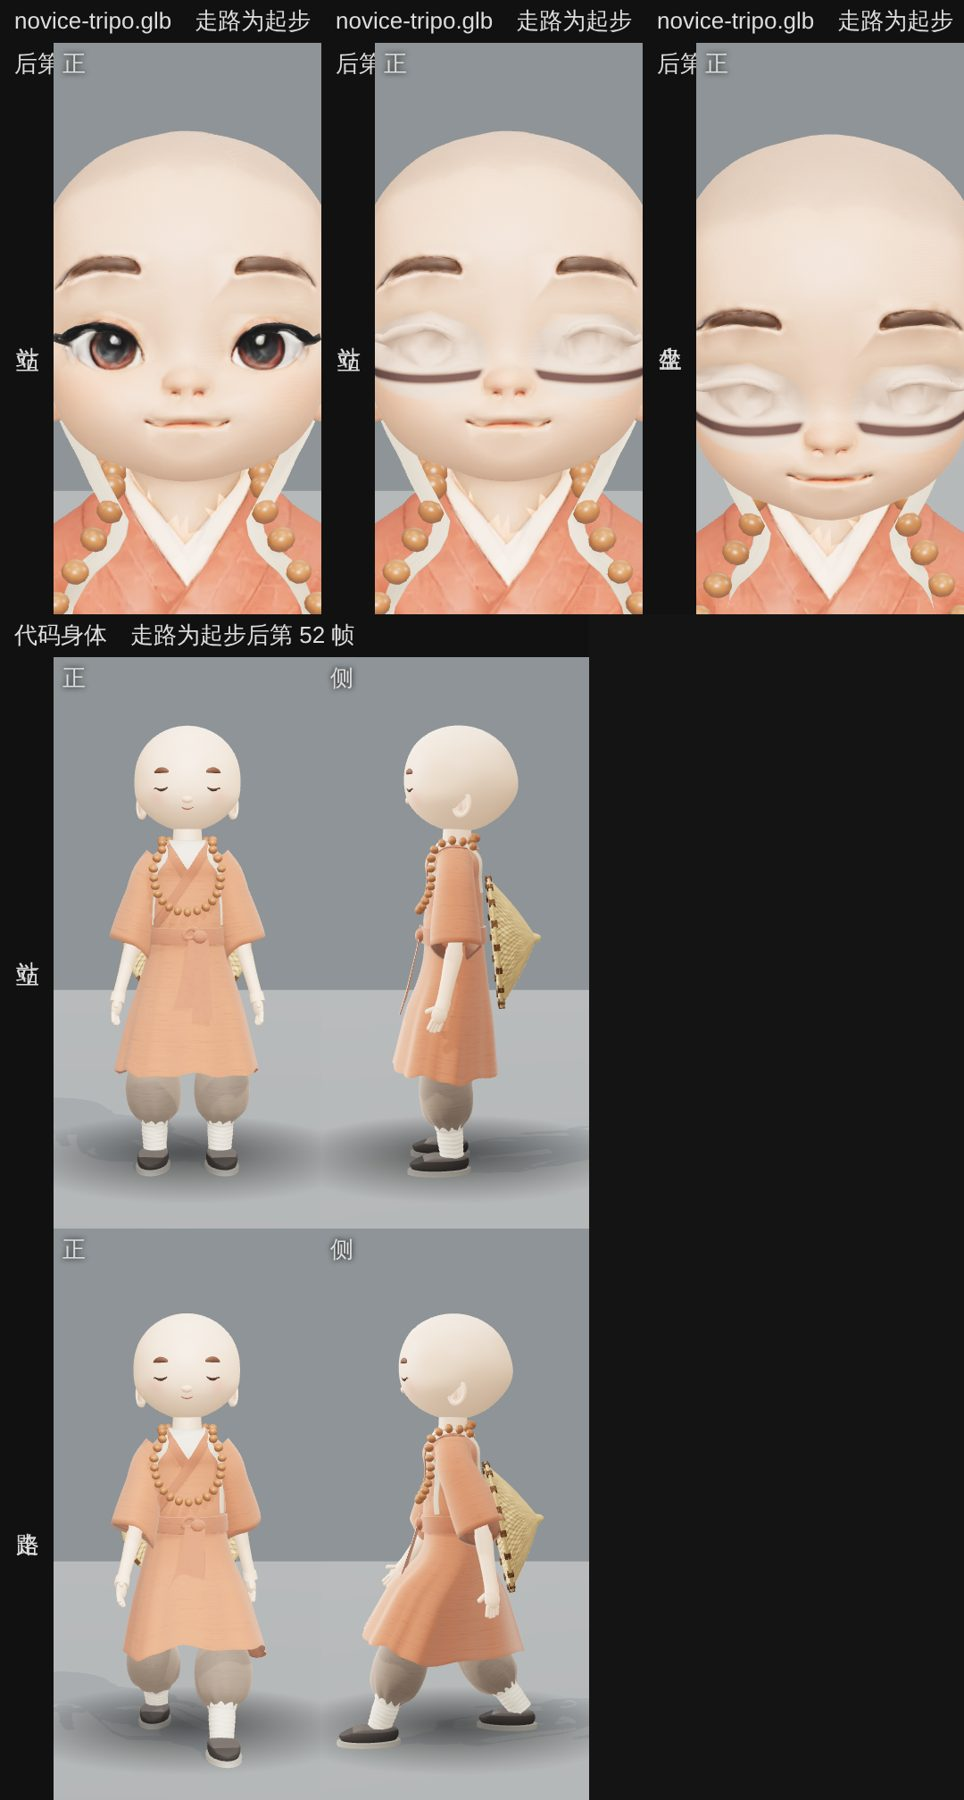
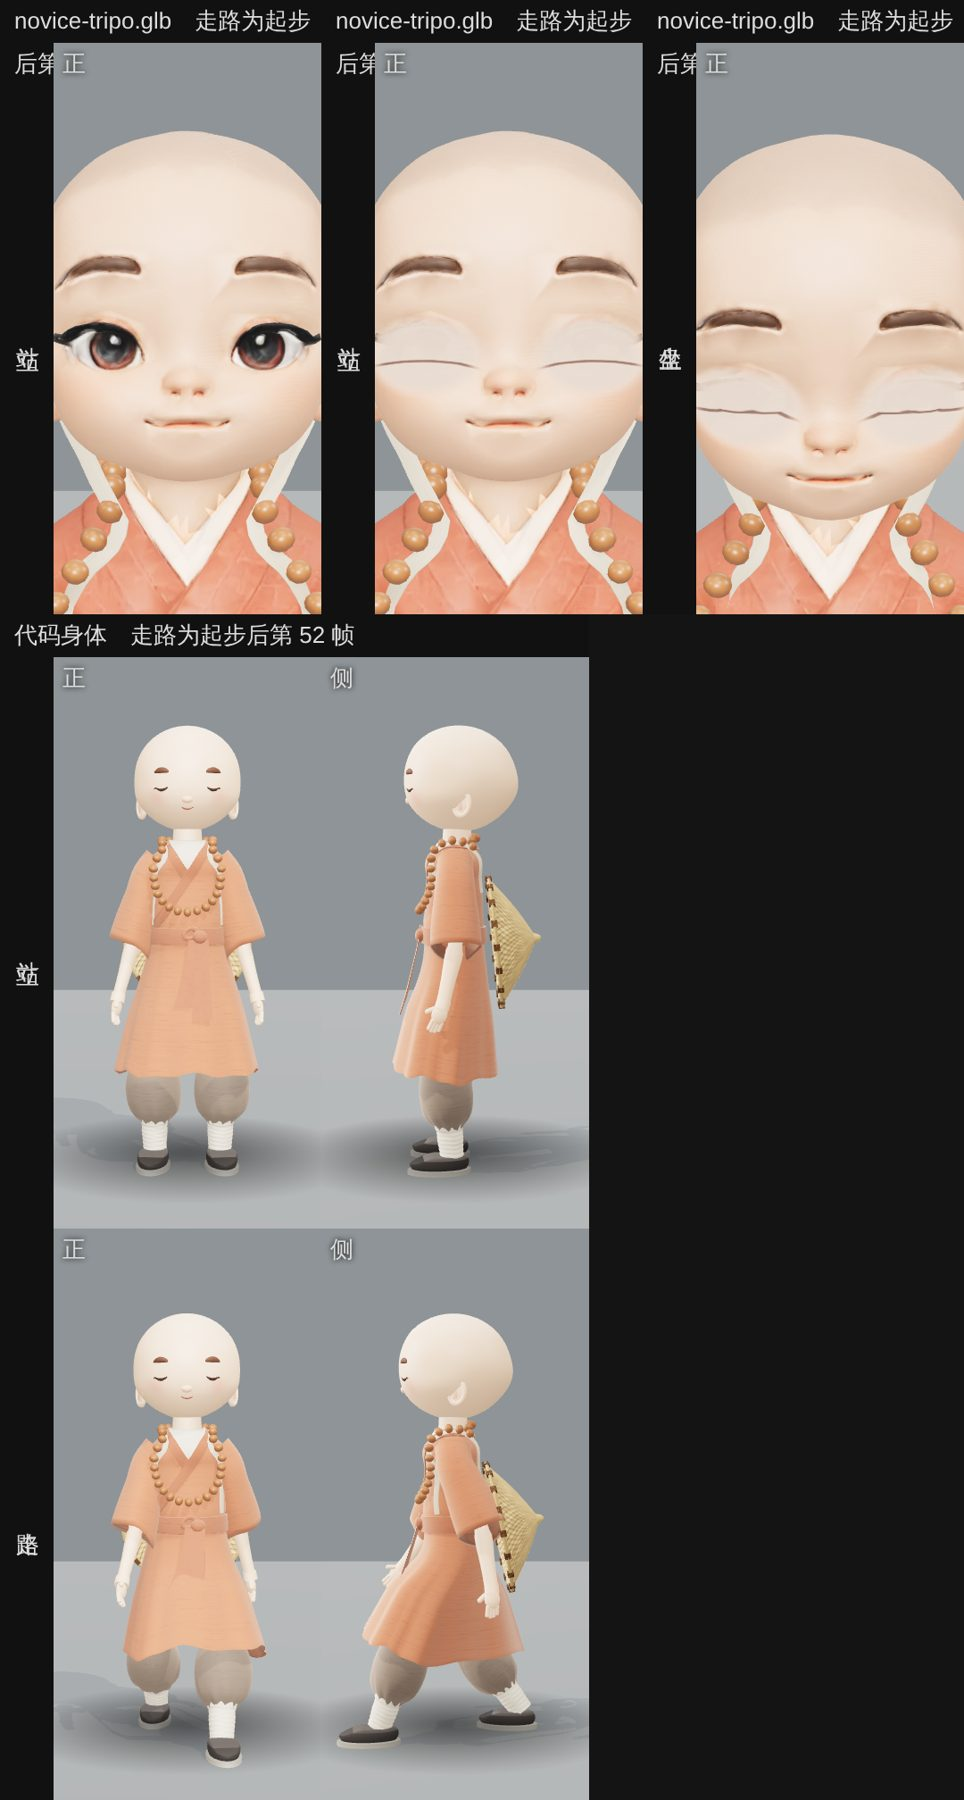
fix(novice): a thinner lid line, a flatter lid, no blinking in a photograph, shut only once seated (#607)
Review of 2c051a8: the lash is a fine arc with drooping ends (1.7 mm) instead of
a bar, the lid takes a face-on normal so the eye socket's relief is not shaded
grey, no blink while the camera is raised (sitting still shuts the eyes), and
the eyes shut once he is mostly down on the cushion, open as he rises.

Claude-Session: https://claude.ai/code/session_01Cq65vHLAWK18AfnEvh7xfL

diff --git a/app/src/blink.js b/app/src/blink.js
@@ -45,7 +45,7 @@ export function createBlink(seed = 607, B = BLINK) {
 
 // Where the eyes are in the body's bind pose (the head of novice-tripo.glb, metres, he faces +z) and the colour of the lid
 // (linear): an ellipse about each eye. The lid is drawn over the painted eye with a lash line along its lower edge.
-export const EYES = { y: 0.985, x: 0.067, rx: 0.054, ry: 0.036, zMin: 0.04, lid: [0.62, 0.40, 0.29], lash: [0.07, 0.035, 0.03] };
+export const EYES = { y: 0.985, x: 0.067, rx: 0.054, ry: 0.036, zMin: 0.04, lid: [0.5, 0.33, 0.245], lash: [0.07, 0.035, 0.03] };
 
 /** Patches a MeshStandardMaterial so its eyes close by `lid.value` (an object with a `value`, shared with the figure). Idempotent. */
 export function lidShader(material, lid) {
@@ -60,12 +60,13 @@ export function lidShader(material, lid) {
   if (uLid > 0.001 && vBind.z > ${f(EYES.zMin)}) {
     vec2 e = vec2(abs(vBind.x) - ${f(EYES.x)}, vBind.y - ${f(EYES.y)});
     float d = length(e / vec2(${f(EYES.rx)}, ${f(EYES.ry)}));
-    float over = smoothstep(1.0, 0.88, d) * uLid; lidOver = over;
-    float curve = -0.012 - 0.006 * (1.0 - clamp(e.x / ${f(EYES.rx)}, -1.0, 1.0) * clamp(e.x / ${f(EYES.rx)}, -1.0, 1.0));
-    float lash = smoothstep(0.0065, 0.002, abs(e.y - curve)) * smoothstep(1.0, 0.8, abs(e.x) / ${f(EYES.rx)}) * uLid;
+    float over = smoothstep(1.0, 0.62, d) * uLid; lidOver = over;
+    float xn = clamp(e.x / ${f(EYES.rx)}, -1.0, 1.0);
+    float curve = -0.004 - 0.009 * xn * xn;
+    float lash = smoothstep(0.0017, 0.0005, abs(e.y - curve)) * smoothstep(1.0, 0.7, abs(xn)) * uLid;
     diffuseColor.rgb = mix(diffuseColor.rgb, ${v3(EYES.lid)}, over);
-    diffuseColor.rgb = mix(diffuseColor.rgb, ${v3(EYES.lash)}, lash * over);
-  }`).replace("#include <roughnessmap_fragment>", "#include <roughnessmap_fragment>\n  roughnessFactor = mix(roughnessFactor, 1.0, lidOver);").replace("#include <emissivemap_fragment>", "#include <emissivemap_fragment>\n  totalEmissiveRadiance *= 1.0 - lidOver;").replace("#include <normal_fragment_maps>", "#include <normal_fragment_maps>\n  normal = normalize(mix(normal, nonPerturbedNormal, lidOver));");
+    diffuseColor.rgb = mix(diffuseColor.rgb, ${v3(EYES.lash)}, lash * over * 0.9);
+  }`).replace("#include <roughnessmap_fragment>", "#include <roughnessmap_fragment>\n  roughnessFactor = mix(roughnessFactor, 1.0, lidOver);").replace("#include <emissivemap_fragment>", "#include <emissivemap_fragment>\n  totalEmissiveRadiance *= 1.0 - lidOver;").replace("#include <normal_fragment_maps>", "#include <normal_fragment_maps>\n  normal = normalize(mix(normal, normalize(vViewPosition + vec3(0.0, 0.1, 0.0)), 0.9 * lidOver));");
   };
   material.customProgramCacheKey = () => "lid";
   material.needsUpdate = true;

diff --git a/app/src/monk.js b/app/src/monk.js
@@ -678,11 +678,11 @@ export function createMonk() {
       dt = Math.min(Math.max(dt || 0, 0), 0.1); speed = Math.max(0, speed || 0);
       bones.forEach((b, i) => { b.position.copy(rest[i][0]); b.quaternion.copy(rest[i][1]); b.scale.set(1, 1, 1); });
       if (pose === "bind") { legs.visible = shoes.visible = true; group.updateMatrixWorld(true); driveHelpers(true); return; }
-      lid.value = eyed ? blink.step(dt, pose === "sit", blinking) : 0;   // the Tripo body's eyelids (#607)
       const pray = pose === true || pose === "pray", sit = pose === "sit", chair = pose === "chair", hop = pose === "hop", stairs = !!grounding.stairs, ease = (k) => Math.min(1, dt * k);
       const act = grounding.act || null, bow = act?.bow || 0, turnTo = act?.twist || 0, nod = act?.nod || 0, look = act?.look || 0, air = act && act.breath != null ? act.breath : null;
       // `seat`: cross-legged on a cushion; `perch`: on a stool, as on a chair.
       seat += ((sit ? 1 : 0) - seat) * ease(3.5); perch += ((chair ? 1 : 0) - perch) * ease(3.5);
+      lid.value = eyed ? blink.step(dt, sit && seat > 0.4, blinking) : 0;   // the Tripo body's eyelids (#607): shut once he is mostly down on the cushion, open as he rises
       // His legs fold into the seat as slowly as he sits down, but come out of it at once when he gets up: off a stool
       // a child slips down onto his feet, and the body (`seat`, `perch`) rises from that crouch over the next second.
       // Sent from one kind of seat to the other, he gets up from the first as above and folds into the second.

diff --git a/app/yard.js b/app/yard.js
@@ -780,7 +780,7 @@ function frame(now) {
   if (walkViz) walkViz.update(pos.x, walker.heightAt(pos.x, pos.z), pos.z);
   // (`posed`: a tool may have him walk, hurry, climb, hop or sit on the spot, to be looked at closely: `__act`.)
   if (posed) monk.update(dt || 1 / 30, posed.speed || 0, posed.pose || false, t, walker.heightAt, { heightAt: walker.eyeAt, stairs: !!posed.stairs, act: posed.act || null });
-  else monk.update(dt, stage && stage.speed != null ? stage.speed : still || (aloft && !stepping) ? 0 : speedNow, (aloft && !stepping) || (climb && climb.t < climb.plan.duration * 0.5) ? "hop" : stage ? stage.pose : photo.on && photo.pray, t, walker.heightAt, { heightAt: walker.eyeAt, stairs: walker.onStairs(pos.x, pos.z), act: stage ? stage.act : null });
+  else { monk.blinking = !Q.has("shot") && !photo.on; monk.update(dt, stage && stage.speed != null ? stage.speed : still || (aloft && !stepping) ? 0 : speedNow, (aloft && !stepping) || (climb && climb.t < climb.plan.duration * 0.5) ? "hop" : stage ? stage.pose : photo.on && photo.pray, t, walker.heightAt, { heightAt: walker.eyeAt, stairs: walker.onStairs(pos.x, pos.z), act: stage ? stage.act : null }); }
   // Where he steps outdoors in the snow he leaves his prints (a room's floor keeps none, and the square stays outside),
   // and every step is heard, as what it comes down on sounds: snow, dry stone, stone wet after rain, a puddle in the
   // paving, a hall's floor. A little to the side of the foot that made it (his left is the listener's left, from
